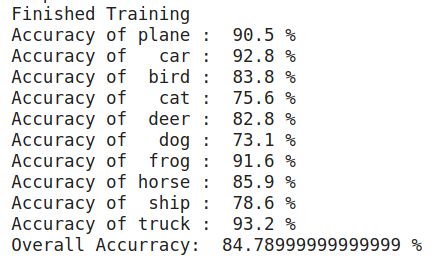
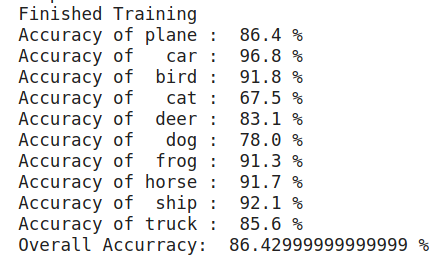
Update result2

Changed region(s): [[0.0, 0.0, 0.9728, 0.9961]]

diff --git a/hw5-CIFAR-10/README.md b/hw5-CIFAR-10/README.md
@@ -68,7 +68,7 @@ net = IdentityResNet(nblk_stage1=2, nblk_stage2=2,
 ```
 如果想调整block数以提高准确度在上方代码中修改数字即可
 
-* Result of changed the block of netword and data augmentation as below, accuracy increased 6%
+* Result of changed the block number of netword and data augmentation as below, accuracy increased 8%
 
 
 ```python
@@ -79,7 +79,7 @@ transform = transforms.Compose([transforms.RandomHorizontalFlip(),
                                 transforms.Normalize((0.5, 0.5, 0.5), (0.5, 0.5, 0.5))])
 
 # define network
-net = IdentityResNet(nblk_stage1=3, nblk_stage2=4,
+net = IdentityResNet(nblk_stage1=4, nblk_stage2=5,
                      nblk_stage3=6, nblk_stage4=3)
 ```
 
